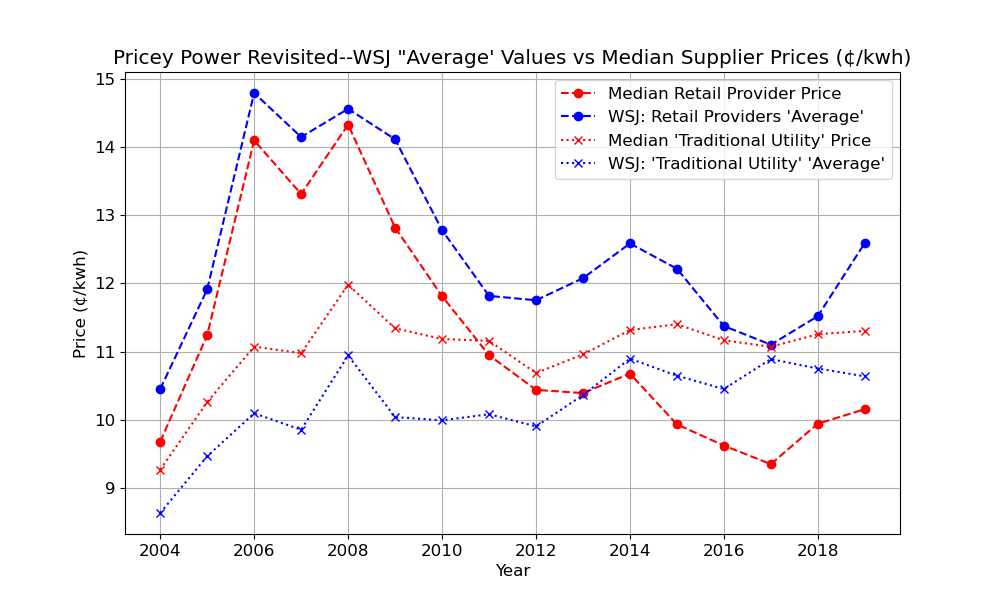
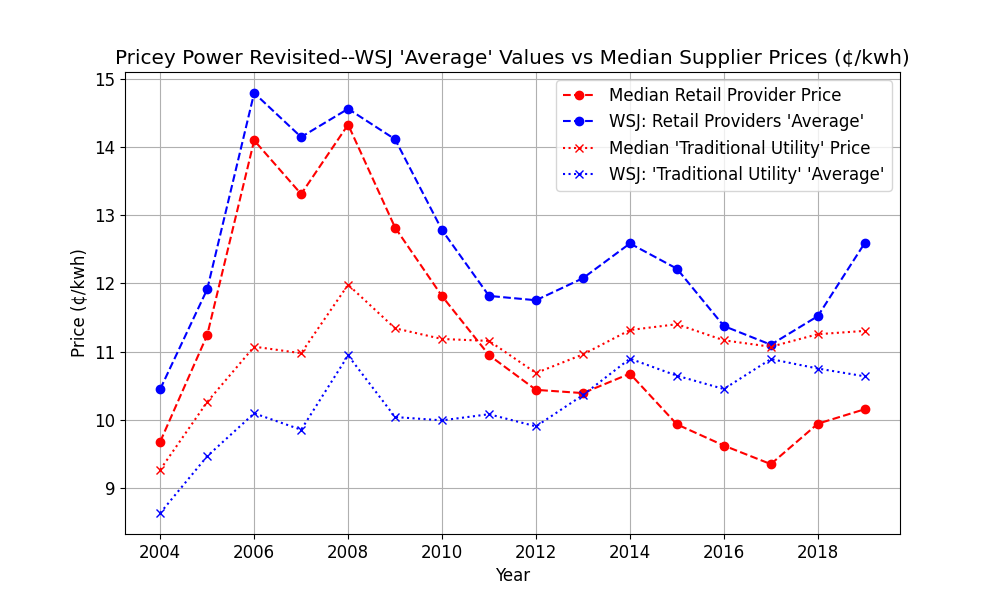
Continued small edits

diff --git a/eia_retail_analysis1.py b/eia_retail_analysis1.py
@@ -86,7 +86,7 @@ plt.rc('font', size=12)
 fig, ax = plt.subplots(figsize=(10, 6))
 ax.set_xlabel('Year')
 ax.set_ylabel('Price (\u00A2/kwh)')
-ax.set_title("""Pricey Power Revisited--WSJ "Average' Values vs Median Supplier Prices (\u00A2/kwh)""")
+ax.set_title("""Pricey Power Revisited--WSJ 'Average' Values vs Median Supplier Prices (\u00A2/kwh)""")
 ax.grid(True)
 plot_schemes = [{'index_slice': ('DeReg', 'residential', 'mean'), 'color': 'red', 'linestyle': '--', 'marker': 'o',
                  'label': """Median Retail Provider Price"""},
@@ -229,6 +229,15 @@ print("or in total customer-months...")
 print(dereg_customer_count.sum(axis=1) * 12)
 # %%
 # %%
+cust_values_year = aggregate_sums.loc[idx[['WAvgPrcDiff*Sales', 'Customers'], ['DeReg', 'DeRegMinusReg'], :], :].copy()
+scaled_prc_times_sales = cust_values_year.loc[idx['WAvgPrcDiff*Sales', :, :], :].values * 1.e9 / \
+                     cust_values_year.loc[idx['Customers', :, :], :].values
+new_index = pd.MultiIndex.from_product([['PrcDiffPerCustomer'], ['DeReg'], cust_subset],
+                                       names=cust_values_year.index.names)
+cust_values_year = cust_values_year.append(pd.DataFrame(data=scaled_prc_times_sales, index=new_index,
+                                                        columns=cust_values_year.columns))
+# sum of customer-months
+pd.DataFrame(cust_values_year.sum(axis=1)).loc[idx['Customers', 'DeReg', :], :] * 12
 # %%
 # %%
 # %%

diff --git a/Price_of_Power_1.md b/Price_of_Power_1.md
@@ -8,17 +8,17 @@ I read with interest the front-page Wall Street Journal article "[Texas Electric
 <img src="./files/20210224WSJGraphReproduction.png" alt="Wsj Graph">
 >Source: Wall Street Journal analysis of U.S. Energy Information Administration data
 
-The article then takes the price differential in this graph (elsewhere defined as a difference of 'average' prices for *residential customers only*), multiplies it by the amount of energy sold via retail providers, and *voila*: [28 *Billion Dollars*](https://youtu.be/BRAkobf-tVI?t=11).
+The article then takes the price differential in this graph (elsewhere defined as a difference of 'average' prices for *residential customers only*), multiplies it by the amount of energy sold via retail providers, and *voila*: [28 *Billion Dollars*](https://youtu.be/BRAkobf-tVI?t=11) (which, by the way, sounds *vastly more impressive* than the equivalent <span style="text-decoration: underline;">$26/Customer/Month</span> [Average 5.6MM customers over 192 months]).
 
 Well, that seemed clear enough, except, as someone who regularly shops power suppliers as a retail consumer in Texas, the numbers seemed...***suspiciously high***.  For example, rummaging around in my records, I found:
 <img src="./files/20180909_EFL.jpg" alt="August 2018 EFL">
 
-And, I have a stack of similar or lower-priced records dating back to 2010. My 2018 contract renewal, and the others, seemed to be considerably below *both* the 'Retail Provider' and 'Traditional Utility' numbers provided in the article.  Well, it's not as if I utilize some obscure marketing scheme--each year, when my contract expires, I go to the PUC-sponsored website [powertochoose.org](http://powertochoose.org), choose "12-month, fixed price, sorted" and *select the provider with the lowest price.*  Not a lot of brainpower involved there (although occasionally I have seen some plans which have different prices based on usage, so that *does* require some math).  In any case, I have a stack of these '[EFLs](https://www.puc.texas.gov/industry/electric/rates/Default.aspx)' over the last 10 years with similar results, all lower than *both lines* this graph.
+And, I have a stack of similar or lower-priced records dating back to 2010. My 2018 contract renewal, and the others, seemed to be considerably below *both* the 'Retail Provider' and 'Traditional Utility' numbers provided in the article.  Well, it's not as if I utilize some obscure marketing scheme--each year, when my contract expires, I go to the PUC-sponsored website [powertochoose.org](http://powertochoose.org), choose "12-month, fixed price, sorted" and *select the provider with the lowest price.*  Not a lot of brainpower involved there (although occasionally I have seen some plans which have different prices based on usage, so that *does* require some math).  In any case, I have a stack of these '[EFLs](https://www.puc.texas.gov/industry/electric/rates/Default.aspx)' over the last 10 years with similar results, all lower than *both lines* this graph.  And, I have found the process to be vastly easier than shopping for other household services such as internet service provider, insurance, cell phones, and streaming services.
 
 ### Questions raised, ***but not answered***: ###
 1. So where is this data?  How can I analyze it myself?
 1. Who are the 'Traditional Utilities' and 'Retail Providers'? What can be learned from the price comparison?  What are the limitations of such a comparison?
-1. What is meant by 'average' price?  The article clarifies, below the graph: "The Journal calculated separate annual statewide rates for utilities and retailers by adding up all of the revenue each type of provider received and dividing it by the kilowatt-hours of electricity it sold." So that's a weighted-average price (total retailer revenues divided by total retailer sales).  How well does *that* measure of central tendency summarize the typical customer experience? Why are my results so different?
+1. What is meant by 'average' price?  The article clarifies, below the graph: "The Journal calculated separate annual statewide rates for utilities and retailers by adding up all of the revenue each type of provider received and dividing it by the kilowatt-hours of electricity it sold." So that's a *weighted-average price* (total retailer revenues divided by total retailer sales).  How well does *that* measure of central tendency summarize the typical customer experience? Why are my results so different?
 1. What has transpired in the (roughly 2/3) of the market for commercial and industrial customers?  Why is *that* not part of this story?
 1. How can I place this $28 Billion in context?  What are some other insights that can be gained from this data?
 
@@ -26,11 +26,11 @@ And, I have a stack of similar or lower-priced records dating back to 2010. My 2
 
 ###Disclosures: Who am I, why am I writing this?###
 
-So this is largely a story about data and the problems with using one summary statistic to represent a dynamic and varied market.  You don't need a background in energy to gain something from this analysis, but nonetheless that is my background. I've spent the last decade or so as an independent energy consultant; on linkedin, here's [my profile](https://www.linkedin.com/in/dale-furrow-68aa02166/).  Previously, I worked in wholesale power trading and risk management. As a consultant, I have had retail power clients[but also banks, refiners, oil traders, etc]. But the point I'd like to make is: *the views here are entirely my own, and this work isn't associated with any of my clients, past or present.*  I'm writing this because 
+So this is largely a story about data and the problems with using one summary statistic to represent a dynamic and varied market.  You don't need a background in energy to gain something from this analysis, but nonetheless, that is my background. I've spent the last decade or so as an independent energy consultant.  Previously, I worked in wholesale power trading and risk management. As a consultant, I have done projects for retail power clients[but also banks, refiners, oil traders, etc]. The point I'd like to make is: *the views here are entirely my own, and this work isn't associated with any of my clients, past or present.*  I'm writing this because 
 <p></p>
 1. I think this data tells a more interesting story than has been portrayed, 
-1. The authors of the article didn't see fit to make their analysis or the [cleaned] dataset public, 
-1. This is an interesting exercise in extracting, cleaning and analyzing a dataset using python, pandas, and matplotlib. and
+1. The authors of the article didn't make their analysis or the [cleaned] dataset public, 
+1. This is an interesting exercise in extracting, cleaning and analyzing a dataset using python, pandas, and matplotlib.
 1. I'm interested in promoting the accurate dissemination and analysis of public data--this is a good example.
 
 ###Code, Formatting, Conventions###
@@ -83,10 +83,10 @@ You can most certainly *not* definitively ascertain the effectiveness of either 
 1. **Distribution or 'Wires' charges:** retail customers pay a (regulated) fee to access their (unique) distribution system--that value is bundled in the total price results here.
 1. **Generation and Load Characteristics** (Somewhat related to the above) There's no data here on 
 	1. Weather/load characteristics [flatter, easier-to-predict loads *should be* cheaper to serve, regardless of regulatory choice or market design alternative]
-	1. Local generation asset mix, e.g. Does the local utility own (cheap) hydro generation?  Or natural gas generation [a fuel subject to substantial price changes between 2004-2019]?  Are the local coal plants [scrubbed](https://www.gem.wiki/Scrubbers#:~:text=Scrubbers%20are%20an%20apparatus%20that,the%20formation%20of%20acid%20rain.), or equipped with [SCRs](https://en.wikipedia.org/wiki/Selective_catalytic_reduction), and if so, when did the installation go into rate base?  Are there (non-market-competitive) assets maintained solely for reliability?
-	1. Can the customer choose (more expensive)renewable generation in lieu of fossil power?  That's a choice in Texas, and one that carries cost implications.
+	1. Local generation asset mix, e.g. Does the local utility own (cheap) hydro generation?  Or natural gas generation [a fuel subject to substantial price changes between 2004-2019]?  Are the utility's coal plants [scrubbed](https://www.gem.wiki/Scrubbers#:~:text=Scrubbers%20are%20an%20apparatus%20that,the%20formation%20of%20acid%20rain.), or equipped with [SCRs](https://en.wikipedia.org/wiki/Selective_catalytic_reduction), and if so, when did the installation go into rate base?  Are there (non-market-competitive) assets maintained solely for reliability?
+	1. Whether the customer can choose (more expensive)renewable generation in lieu of fossil power.  That's a choice in Texas, and one that carries cost implications.
 
-**So, it's important to have some humility here, and recognize what the data *can and cannot show.  Simple price analysis is a necessary but insufficient method to determine the impact of retail electric deregulation.***
+**So, it's important to have some humility here, and recognize what the data *can and cannot show.  Simple price analysis is a necessary but insufficient requirement to determine the impact of retail electric deregulation.  Please bear these caveats in mind as we execute this analysis.***
 
 ###So what are some useful preliminary findings of the data?###
 
@@ -117,7 +117,7 @@ The 'Retail Provider' group ('DeReg' in our parlance) includes 158 unique names.
     print('Unique Dereg Entities over all time: {0:,}'.format(len(deregs['Entity'].unique())))
     print('Unique Dereg Entities: {0:,}'.format(len(deregs[deregs['Year'] == 2019]['Entity'].unique())))
     print(deregs.pivot_table(values='Entity', columns='Year', aggfunc='count').to_markdown())
-For 2019, we can 'bin' the 68 retailers by customer size:
+For 2019 (most recent data), we can 'bin' the 68 retailers by customer size, I've chosen the bin size as follows:
 
 Total Customers: 6,451,123
 
@@ -169,7 +169,7 @@ The 'Traditional Utilities' group is of course more stable over time, but they h
     sums.loc['Total', :] = total
     print(sums.to_markdown(floatfmt=",.0f"))
     
-Anyway, we should get on to examining prices.
+So, back to the examination of prices.
 
 ###Okay, what's this 'average' price?###
 So we can copy the article data straight from the html (we actually did that previously--it's json data from the article html).  
@@ -187,9 +187,9 @@ We then exploit pandas pivot table functionality to get simple averages and medi
 
 So right away, we can see that:
 
-1. The article values **in bold** will have to be either weighted averages (as indicated by the quote above), or they are inconsistent with this data...we'll accept them as weighted averages for now, but we'll do that consistency check below.
-2. The price distribution by sales must be *significantly skewed* for retail providers. For the most recent year, the weighted average is 24% above the median supplier's price. By contrast, for 'Traditional Utilities' that difference is minimal.
-3. My 2018-2019 fixed price contract detailed above makes a lot more sense now...below the median, but closer to that than to the weighted average.
+1. The article values **in bold** (weighted averages) are significantly higher than either (1) the price of the average provider or (2) the price of the median provider.
+2. So it follows that the price distribution by sales must be *significantly skewed* for retail providers. For the most recent year, the weighted average is 24% above the median supplier's price. By contrast, for 'Traditional Utilities' that difference is minimal.
+3. My 2018-2019 fixed price contract detailed above makes a lot more sense now...below the median, but closer to that than to the article's weighted average.
 
 We definitely should do a visualization here...all 6 rows would be a bit busy, so we'll drop the 'simple mean' values.  The code is [block 1, here](https://github.com/dkfurrow/eia-retail-analysis/blob/master/eia_retail_analysis1.py).
 <img src="./files/pricey_power_revisited.png" alt="WSJ Data with simple mean and medians">
@@ -198,7 +198,7 @@ So this allows us to see the trends a little better.  So we see here that (1) th
 
 ### Confirm weighted average ###
 
-So, making use of pandas pivot_table and multi-index capabilities, we calculate a weighted average and compare...[block 2, here](https://github.com/dkfurrow/eia-retail-analysis/blob/master/eia_retail_analysis1.py)
+So, making use of pandas pivot_table and multi-index capabilities, we calculate a weighted average and compare to the article's values...[block 2, here](https://github.com/dkfurrow/eia-retail-analysis/blob/master/eia_retail_analysis1.py)
 
 |                                       |   2004 |   2005 |   2006 |   2007 |   2008 |   2009 |   2010 |   2011 |   2012 |   2013 |   2014 |   2015 |   2016 |   2017 |   2018 |   2019 |
 |:--------------------------------------|-------:|-------:|-------:|-------:|-------:|-------:|-------:|-------:|-------:|-------:|-------:|-------:|-------:|-------:|-------:|-------:|
@@ -207,7 +207,7 @@ So, making use of pandas pivot_table and multi-index capabilities, we calculate 
 | Calc Reg Median   |   8.63 |   9.47 |  10.10 |   9.86 |  10.95 |  10.06 |  10.01 |  10.10 |   9.93 |  10.39 |  10.93 |  10.67 |  10.47 |  10.88 |  10.74 |  10.63 |
 | **WSJ Reg 'Average'**    |   8.63 |   9.47 |  10.10 |   9.86 |  10.94 |  10.04 |   9.99 |  10.08 |   9.90 |  10.36 |  10.90 |  10.65 |  10.45 |  10.89 |  10.75 |  10.64 |
 
-So we basically tie on weighted average...certainly down to the &#162;0.1/kwh level (1 [mill](https://www.statista.com/statistics/195814/us-power-plant-operating-expenses-since-1998/)).
+And we basically tie on weighted average...certainly down to the &#162;0.1/kwh level (1 [mill](https://www.statista.com/statistics/195814/us-power-plant-operating-expenses-since-1998/)).
 
 ###Why are my results so different from 'Average' ?###
 
@@ -215,9 +215,9 @@ Well, we've definitely got a clue from the work we've accomplished thus far...th
 
 <img src="./files/2018_dereg_residential_prices_bar.png" alt="2018 Bar chart residential retail Texas">
 
-So, some of the companies with *the most customers* also charge *the highest prices.*  But there are 66 suppliers represented here, many with substantially better pricing than the *weighted average.* 
+So, the companies with *the most customers* also charge *the highest prices.*  But there are 66 suppliers represented here, the majority of whom have substantially better pricing than the *weighted average.* 
 
-By the way, it's fair to repeat: in an unregulated market, simple price may not be the only issue...a customer might value Green power, for example, and be willing to pay for it.  Companies offer 'stable bill' plans, for example, where the 12-month total absolute bill is constant--a form of insurance.  Finally, in cases like my EFL above, there's implicit financing--I lend money to my supplier in off-peak months, my supplier lends money to me in peak months.
+By the way, it's fair to repeat: in an unregulated market, simple price may not be the only issue...a customer might value Green power, for example, and be willing to pay for it.  Companies offer 'stable bill' plans, for example, where the 12-month total absolute bill is constant--a form of insurance.  Finally, consumer credit is bundled-- in cases like my EFL above, there's implicit financing--I lend money to my supplier in off-peak months, my supplier lends money to me in peak months.
 
 So, who are those large suppliers on the right side of the graph ([block 4, here](https://github.com/dkfurrow/eia-retail-analysis/blob/master/eia_retail_analysis1.py))?
 
@@ -229,10 +229,10 @@ So, who are those large suppliers on the right side of the graph ([block 4, here
 | Ambit Energy Holdings, LLC     |     7.99 |   410,791 |   441,364 |  5,523,891 |
 | Green Mountain Energy Company  |    12.44 |   355,016 |   530,030.20 |  4,259,048 |
 
-No surprise here...they are the retail arms of the legacy regulated retail providers for the Dallas and Houston--and they drive the price distribution skew. (Also note GMER--not necessarily comparable to the others because their product is green energy vs slice-of-system sales)
+No surprise here...they are the retail arms of the legacy regulated retail providers for the Dallas and Houston regions--and they drive the price distribution skew. (Also note Green Mountain--not necessarily comparable to the others because their product is green energy vs majority slice-of-system sales elsewhere)
 
-So to summarize, we started with an article in the business press, in which the authors used a weighted average price graph of a subsection of the electricity market to spin a large, headline-grabbing dollar cost attributed to 'deregulation'.  Here, I've demonstrated how to pull the data, and provided a more detailed analysis. I'm hopeful this analysis demonstrates the inappropriateness of a simplistic weighted-average calculation to summarize a market situation which is actually *significantly skewed* between (2018 numbers, [block 5](https://github.com/dkfurrow/eia-retail-analysis/blob/master/eia_retail_analysis1.py)) a large group of customers who remain with legacy incumbents at higher prices (2.7MM, &#162;12.8/kwn) and a similarly large group of customers who have chosen alternate suppliers at lower prices (3.6MM, &#162;9.9/kwh).  A more realistic view of the data on residential retail power in Texas demonstrates that customers who switch from legacy providers (especially in recent years) gain a clear benefit, *both* compared to those legacy providers *and* compared to the 'traditional utilities' used for comparison (with caveats to that comparison as noted above).  
+So to summarize, we started with an article in the business press, in which the authors used a *weighted average price* graph of a *subsection* of the electricity market to spin a large, headline-grabbing dollar cost attributed to 'deregulation'.  Here, I've demonstrated how to pull the data, and provided a more detailed analysis. I'm hopeful this analysis demonstrates the inappropriateness of a simplistic weighted-average calculation to summarize a market situation which is actually *significantly skewed* between (2018 numbers, [block 5](https://github.com/dkfurrow/eia-retail-analysis/blob/master/eia_retail_analysis1.py)) a large group of customers who remain with legacy incumbents at higher prices (2.7MM, &#162;12.8/kwn) and a similarly large group of customers who have chosen alternate suppliers at lower prices (3.6MM, &#162;9.9/kwh).  A more realistic view of the data on residential retail power in Texas demonstrates that customers who switch from legacy providers (especially in recent years) gain a clear benefit, *both* compared to those legacy providers *and* compared to the 'traditional utilities' (with caveats to that comparison as noted above).  In summary, those who choose to shop based on price have had the opportunity to do so and save money--the data clearly demonstrate that fact.  The data also demonstrate the costs for those who choose to remain with the legacy providers.  There may be important policy lessons here, positive or negative--but what's clear from this analysis is that summarizing this data using only a weighted average misrepresents a market reality which is both diverse and dynamic.
 
-Finally, the data and code are posted, so you have the opportunity to decide for yourself the appropriateness of the analysis, and create an extension or an alternative.  I'm hopeful this article and associated [github repo](https://github.com/dkfurrow/eia-retail-analysis) provides some useful example code concerning the use of python, pandas and matplotlib in the cleaning, processing, analysis and visualization of this data.
+Finally, the data and code are posted, so you have the opportunity to decide for yourself the appropriateness of this analysis, create an extension or an alternative.  I'm hopeful this article and associated [github repo](https://github.com/dkfurrow/eia-retail-analysis) provides some useful example code concerning the use of python, pandas and matplotlib in the cleaning, processing, analysis and visualization of this data.
 
 For the next article, we'll consider the other sectors of the Texas electric retail market, and do some more in-depth analysis of the residential retail market discussed here.
